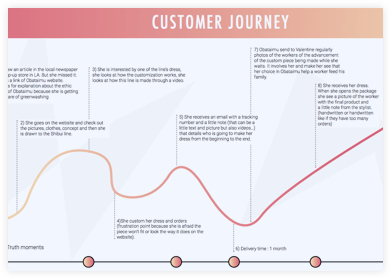
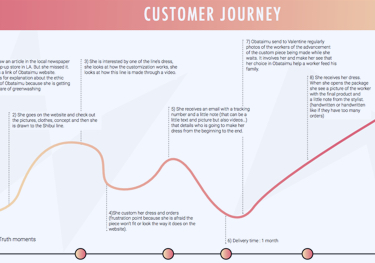
ajout bg disney + motion disney

diff --git a/assets/css/main.css b/assets/css/main.css
@@ -363,6 +363,19 @@ section{position: relative;}
 		color: #fff;
 		transition:.3s
 	}
+	.youtube{
+		position: relative;
+		width: 100%;
+		height: 0px;
+		padding-bottom: 50%;
+	}
+	.youtube iframe{
+		position: absolute;
+		left: 0px;
+		top: 0px;
+		width: 100%;
+		height: 100%;
+	}
 	/* .project span:hover i {
 		padding-left: 20px;
 	} */
@@ -439,7 +452,9 @@ section{position: relative;}
 	}
 	main.project {
 		background-color: #fafafa;
-		text-align: center
+		text-align: center;
+		background-size: cover;
+		background-position: center center;
 	}
 	main.project p i:first-of-type{
 		margin-left: 0;
@@ -458,6 +473,13 @@ section{position: relative;}
 
 	main.project .txtHeader .col2 span{
 		display: inline-block;
+		position: relative;
+
+	}
+
+	main.project .txtHeader .col2 span img{
+		margin: 0;
+		display: block;
 	}
 	main.project h2{
 		font-size: 45px;
@@ -473,13 +495,18 @@ section{position: relative;}
 		-moz-box-shadow:  0px 0px 15px 0px rgba(0,0,0,0.3);
 		box-shadow:  0px 0px 15px 0px rgba(0,0,0,0.3);
 	}
+	main.project section:last-of-type div {
+		padding-bottom: 100px;
+	}
 	main.project section > div {
 		margin: 40px auto;
 		max-width: 1010px;
 		position: relative;
+		padding: 0 10px;
 	}
 	main.project .formatmobile img{
-		width: calc(1000px / 3)
+		width: calc(820px / 3);
+		margin: 0 15px;
 	}
 	main.project .bgProject{
 
@@ -494,6 +521,8 @@ section{position: relative;}
 		box-shadow: none;
 		width: auto;
 		max-width: none;
+		margin: 0;
+		display: block;
 	}
 	.wrapContent {
 		display: inline-block;
@@ -537,7 +566,6 @@ section{position: relative;}
 	}
 	.nav {
 		height: 220px;
-		margin-top: 100px;
 		position: relative;
 		overflow: hidden;
 	}
@@ -600,8 +628,9 @@ section{position: relative;}
 		bottom: 0;
 		right: 0;
 	}
-	main.project .txtHeader .col2 span{
-		position: relative;
+	@media screen and (max-width: 1000px){
+		.bgProject{ display: none }
+
 	}
 	@media screen and (max-width: 750px){
 		.desktop, .nav:first-of-type{

diff --git a/application/views/project-view.php b/application/views/project-view.php
@@ -1,102 +1,89 @@
+
+
 <?php 
 
-	$p = $project[0]['object'];
+$p = $project[0]['object'];
 ?>
 
 <header class="bgi" style="background-image: url(<?= base_url('assets/img/'.$p->image_header) ?>)">
 </header>
-<main class="project notHeader">
-    <section class="txtHeader">
-		<h1><?= $p->name ?></h1>
-		<p>
-		<span><i class="si case"></i> <?= $p->speciality ?> </span>
-		<span><i class="si book"></i> <?= $p->context ?> </span>
-		<span><i class="si people"></i> <?php echo ($p->solo) ? 'solo' : 'Group' ?> </span>
-		<span><i class="si calendar"></i> <?= $p->year ?> </span>
-		</p>
-		<?php 
-		if(isset($p->goals) && !empty($p->goals))
-			echo '<p><span class="bold">Project goals : </span>'.$p->goals.'</p>';
-		if(isset($p->problematics) && !empty($p->problematics))
-			echo '<p><span class="bold">Problematics : </span>'.$p->problematics.'</p>';
-		if(isset($p->solutions) && !empty($p->solutions))
-			echo '<p><span class="bold">Solution : </span>'.$p->solutions.'</p>';
-
-		if(isset($p->strengths) && !empty($p->strengths))
-			echo '<p><span class="bold">Our strenghts : </span></br>'.$p->strengths.'</p>';
-		if(isset($p->result) && !empty($project->result))
-			echo '<p><span class="bold">Result of the challenge : </span>'.$p->result.'</p>';
-		if( isset($project[0]['join']['items']) && $project[0]['join']['items']){ 
-			foreach($project[0]['join']['items'] as $item) { ?><div class="col2">
-			<h2><?= $item['object']->title ?></h2>
-			<span>
-				<img src="<?= base_url('assets/img/'.$item['object']->image) ?>" alt="<?= $item['object']->title ?>">
-				<a href="#">
-				<i class="fa fa-long-arrow-right" aria-hidden="true"></i>
-					
-				</a>
-			</span>
-		</div><?php }} ?>
-        
-	</section>
+<main class="project notHeader" style="background-image: url(<?= base_url('assets/img/'.$p->background) ?>)">
+<section class="txtHeader">
+	<h1><?= $p->name ?></h1>
+	<p>
+	<span><i class="si case"></i> <?= $p->speciality ?> </span>
+	<span><i class="si book"></i> <?= $p->context ?> </span>
+	<span><i class="si people"></i> <?php echo ($p->solo) ? 'solo' : 'Group' ?> </span>
+	<span><i class="si calendar"></i> <?= $p->year ?> </span>
+	</p>
 	<?php 
-	if ( isset($project[0]['join']) && !empty($project[0]['join']) )
-		$j = $project[0]['join'] ;
+	if(isset($p->goals) && !empty($p->goals)) echo '<p><span class="bold">Project goals : </span>'.$p->goals.'</p>';
+	if(isset($p->problematics) && !empty($p->problematics)) echo '<p><span class="bold">Problematics : </span>'.$p->problematics.'</p>';
+	if(isset($p->solutions) && !empty($p->solutions)) echo '<p><span class="bold">Solution : </span>'.$p->solutions.'</p>';
+	if(isset($p->strengths) && !empty($p->strengths)) echo '<p><span class="bold">Our strenghts : </span></br>'.$p->strengths.'</p>';
+	if(isset($p->result) && !empty($project->result)) echo '<p><span class="bold">Result of the challenge : </span>'.$p->result.'</p>';
+	if( isset($project[0]['join']['items']) && $project[0]['join']['items']){ 
+		foreach($project[0]['join']['items'] as $item) { ?><div class="col2">
+		<h2><?= $item['object']->title ?></h2>
+		<span>
+			<?= pictureOrMovie($item['object']->image)['contenu'] ?>
+			<a href="#">
+			<i class="fa fa-long-arrow-right" aria-hidden="true"></i>
+				
+			</a>
+		</span>
+	</div><?php }} ?>
 	
-	if ( isset($j['sections']) && !empty($j['sections']) ){
-		
-		foreach( $j['sections'] as $s ){ ?>
-			<section>
-				<h2><?= $s['object']->name ?></h2>
-				<?php  $bool = true;
-					foreach ($s['join']['content'] as $content ) { ?>
-						
-						
-						<?php 
-						foreach($content['join']['background'] as $bg){
-							$obj = $bg['object'];
-							if ($obj->container === 'ext'){
-								$url = base_url('assets/img/'.$obj->image);
-								$style = $obj->cote.':'.$obj->positionHorizontale.';'.$obj->hauteur.':'.$obj->positionVerticale;
-								echo "<span class='bgProject' style='$style'><img src='$url'></span>";
-							}
-						} ?> 
-					<div <?php echo ($s['object']->format == 'mobile') ? 'class="formatmobile"' : '' ?>>
-						
-						<?php
-						if($s['object']->format !== 'mobile' && !$bool) {
-							echo '</div><div>';
-						} else{
-							$bool = false;
+</section>
+<?php 
+if ( isset($project[0]['join']) && !empty($project[0]['join']) ) $j = $project[0]['join'];
+
+if ( isset($j['sections']) && !empty($j['sections']) ){
+	
+	foreach( $j['sections'] as $s ){ ?>
+		<section>
+			<h2><?= $s['object']->name ?></h2>
+			<?php foreach ( $s['join']['content'] as $key => $content ) { 
+				
+				foreach($content['join']['background'] as $bg){
+					$obj = $bg['object'];
+					if ($obj->container === 'ext'){
+						$style = $obj->cote.':'.$obj->positionHorizontale.';'.$obj->hauteur.':'.$obj->positionVerticale;
+						echo "<span class='bgProject' style='$style'>".pictureOrMovie($obj->image)['contenu']."</span>";
+					}
+				}
+				$format = $s['object']->format ;
+				if ($format !== 'mobile' || ( $format === 'mobile' && $key === 0) ) {
+				?> 
+					<div <?= ( $format == 'mobile') ? 'class="formatmobile"' : '' ?>>
+				<?php }  
+				$p =  pictureOrMovie($content['object']->file, 'content') ?>
+				<span class="wrapContent <?= $p['type'] === 'video' ? 'youtube' : '' ?>">
+					<?php
+					foreach($content['join']['background'] as $bg){
+						$obj = $bg['object'];
+						if ($obj->container === 'int'){
+							$style = $obj->cote.':'.$obj->positionHorizontale.';'.$obj->hauteur.':'.$obj->positionVerticale;
+							echo "<span class='bgProject' style='$style'>".pictureOrMovie($obj->image)['contenu']."</span>";
 						}
-						?>
-						<span class="wrapContent">
-							<?php
-							foreach($content['join']['background'] as $bg){
-								$obj = $bg['object'];
-								if ($obj->container === 'int'){
-									$url = base_url('assets/img/'.$obj->image);
-									$style = $obj->cote.':'.$obj->positionHorizontale.';'.$obj->hauteur.':'.$obj->positionVerticale;
-									echo "<span class='bgProject' style='$style'><img src='$url'></span>";
-								}
-							}
-							?>
-							<img class="content" src="<?= base_url('assets/img/'.$content['object']->file) ?>" alt="">
-						</span>
-						</div>
-				<?php } ?>
-			</section>
-		<?php }
-	} ?>
-	<?php
-	$tab = [$prev, $next];
-	foreach ($tab as $t) { ?><div class="col2 nav">
-		<div class="bgi" style="background-image:url(<?= base_url('assets/img/'.$t->image) ?>)"></div>
-		<p class="middle">
-			<?= $t->name ?>
-		</p><span class="vmiddle"></span>
-		<a href="<?= base_url('/project/'.$t->id) ?>" class="block"></a>
-	</div><?php } ?>
+					} 
+					echo $p['contenu'] ; ?>
+				</span>
+				<?php if ($format !== 'mobile' || ( $format === 'mobile' && $key === ( count( $s['join']['content'] ) - 1 ) ) ) { ?>
+					</div>
+				<?php }
+			} ?>
+		</section>
+	<?php }
+} 
+$tab = [$prev, $next];
+foreach ($tab as $t) { ?><div class="col2 nav">
+	<div class="bgi" style="background-image:url(<?= base_url('assets/img/'.$t->image) ?>)"></div>
+	<p class="middle">
+		<?= $t->name ?>
+	</p><span class="vmiddle"></span>
+	<a href="<?= base_url('/project/'.$t->id) ?>" class="block"></a>
+</div><?php } ?>
 </main>
 <?php  
 echo '<pre>';

diff --git a/application/helpers/tatou_helper.php b/application/helpers/tatou_helper.php
@@ -17,3 +17,33 @@ if (!function_exists('clean')){
         }
     }
 }
+
+if (!function_exists('pictureOrMovie')){
+	function pictureOrMovie($string, $class = ''){
+        if(preg_match('#https?:\/\/(www.)?[a-z]*.[a-z]{2,3}\/(.*)#', $string, $matches)){
+            $url = parse_url($string);
+            $domaine = explode('.', $url['host'])[1];
+            switch(explode('.', $url['host'])[1]){
+                case 'dailymotion':
+                    $codeVideo = array_reverse(explode('/', $url['path']))[0];
+                    $retour['type'] = 'video';
+                    $retour['contenu'] = '<iframe frameborder="0" src="//www.dailymotion.com/embed/video/'.$codeVideo.'" allowfullscreen=""></iframe>';
+                    break;
+                case 'youtube':
+                    $codeVideo = array_reverse(explode('=', $url['query']))[0];
+                    $retour['type'] = 'video';
+                    $retour['contenu'] = '<iframe src="https://www.youtube.com/embed/'.$codeVideo.'" frameborder="0" allow="autoplay; encrypted-media" allowfullscreen></iframe>';
+                    break;
+                default: 
+                    return false;
+            }
+            return $retour;
+        }else{
+            $retour['type'] = 'image';
+            $retour['contenu'] = '<img'.(strlen($class) > 0 ? " class='$class'":"").' src="'.base_url('assets/img/'.$string).'" />';
+            return $retour;
+        }
+
+        return false;
+    }
+}
